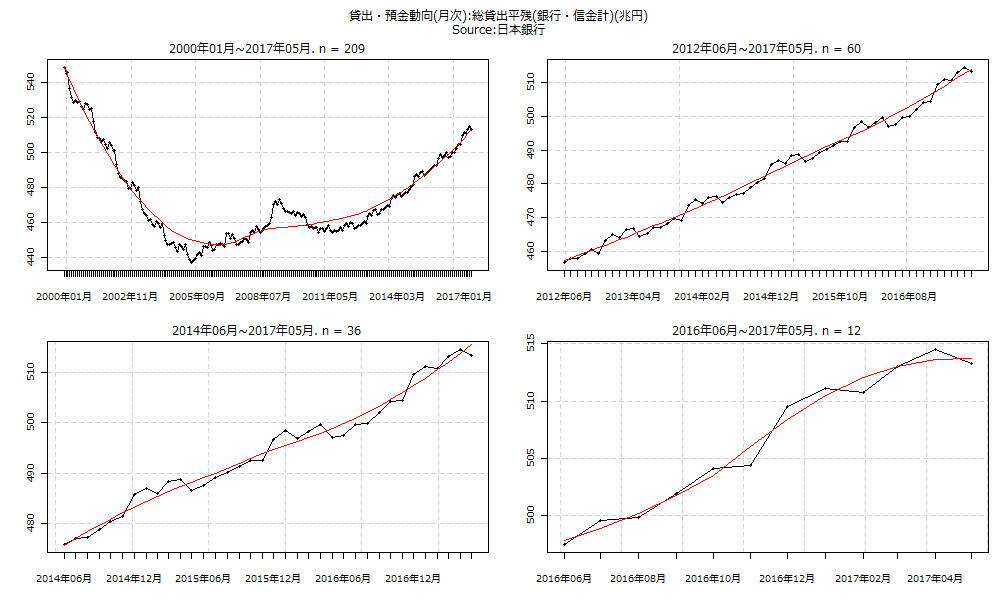
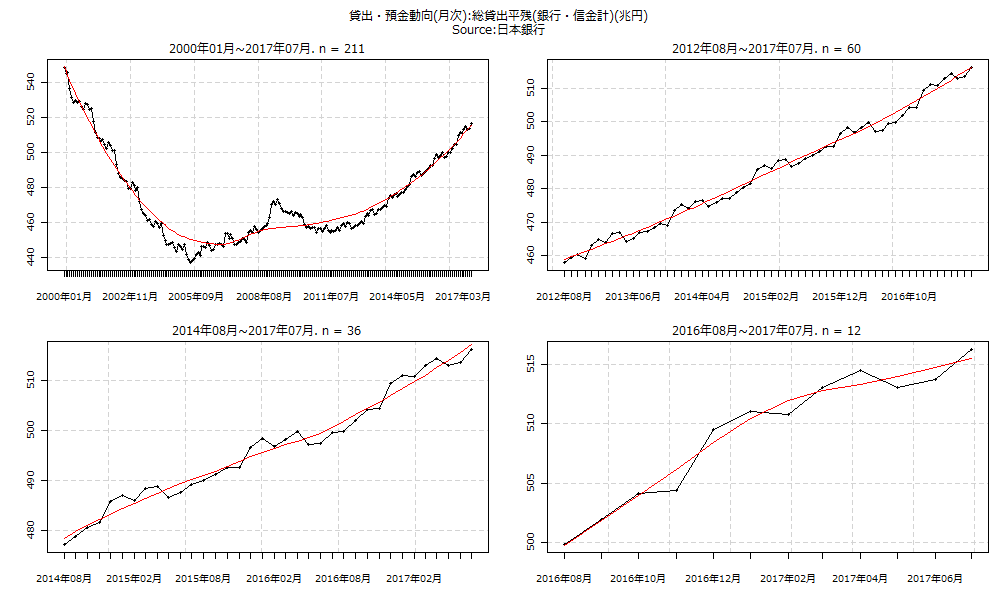
insertheader,selfcontained追記
insertheader,selfcontained追記

diff --git a/md/20170808-olive.md b/md/20170808-olive.md
@@ -1,15 +1,15 @@
 
 ---
-tags : [国際収支,経常収支,貿易収支]
-title : 日本の国際収支:経常収支,資本移転等収支,金融収支,誤差脱漏,貿易収支,サービス収支,所得収支,輸出,輸入(億円):2017年06月:経常収支:9,346 , 経常収支:貿易・サービス収支:貿易収支:5,185
+tags : [貸出, 預金, 銀行, 都銀, 地銀, 日本銀行]
+title : 貸出･預金動向 速報:2017-07:貸出・預金動向(月次):総貸出平残(銀行計)(億円):4,492,177 , 貸出・預金動向(月次):総貸出平残(銀行計)前年比(%):3.4
 published : true
 ---
 
 
-<a href="http://knowledgevault.saecanet.com/charts/chartImages/InternationalBalanceofPayments1.png"><img border="0" src="http://knowledgevault.saecanet.com/charts/chartImages/InternationalBalanceofPayments1.png" width="100%" /></a>
+<a href="http://knowledgevault.saecanet.com/charts/chartImages/PrincipalFiguresOfFinancialInstitutionsInJapan1.png"><img border="0" src="http://knowledgevault.saecanet.com/charts/chartImages/PrincipalFiguresOfFinancialInstitutionsInJapan1.png" width="100%" /></a>
 
 
-<a href="http://knowledgevault.saecanet.com/charts/chartImages/InternationalBalanceofPayments2.png"><img border="0" src="http://knowledgevault.saecanet.com/charts/chartImages/InternationalBalanceofPayments2.png" width="100%" /></a>
+<a href="http://knowledgevault.saecanet.com/charts/chartImages/PrincipalFiguresOfFinancialInstitutionsInJapan2.png"><img border="0" src="http://knowledgevault.saecanet.com/charts/chartImages/PrincipalFiguresOfFinancialInstitutionsInJapan2.png" width="100%" /></a>
 
 
 ***
@@ -18,7 +18,7 @@ published : true
 #### 内閣総理大臣毎の基本統計量
 
 
-- 経常収支:貿易・サービス収支:貿易収支:輸出(億円)
+- 貸出・預金動向(月次):総貸出平残(銀行計)前年比(%)
 
 
 <table id = 'amcc' width = '100%'>
@@ -36,114 +36,144 @@ published : true
  </thead>
 <tbody>
   <tr>
+   <td style="text-align:left;"> 細川護煕 </td>
+   <td style="text-align:right;"> 0.2 </td>
+   <td style="text-align:right;"> 0.4 </td>
+   <td style="text-align:right;"> 0.5 </td>
+   <td style="text-align:right;"> 0.52 </td>
+   <td style="text-align:right;"> 0.57 </td>
+   <td style="text-align:right;"> 0.9 </td>
+   <td style="text-align:left;"> 1993年09月~1994年04月 </td>
+  </tr>
+  <tr>
+   <td style="text-align:left;"> 羽田孜 </td>
+   <td style="text-align:right;"> -0.2 </td>
+   <td style="text-align:right;"> -0.15 </td>
+   <td style="text-align:right;"> -0.1 </td>
+   <td style="text-align:right;"> -0.1 </td>
+   <td style="text-align:right;"> -0.05 </td>
+   <td style="text-align:right;"> 0 </td>
+   <td style="text-align:left;"> 1994年05月~1994年06月 </td>
+  </tr>
+  <tr>
+   <td style="text-align:left;"> 村山富市 </td>
+   <td style="text-align:right;"> -0.3 </td>
+   <td style="text-align:right;"> -0.2 </td>
+   <td style="text-align:right;"> 0 </td>
+   <td style="text-align:right;"> 0.55 </td>
+   <td style="text-align:right;"> 1.4 </td>
+   <td style="text-align:right;"> 2.2 </td>
+   <td style="text-align:left;"> 1994年07月~1996年01月 </td>
+  </tr>
+  <tr>
    <td style="text-align:left;"> 橋本龍太郎(1-2) </td>
-   <td style="text-align:right;"> 32,685 </td>
-   <td style="text-align:right;"> 37,036.25 </td>
-   <td style="text-align:right;"> 39,296 </td>
-   <td style="text-align:right;"> 39,158.87 </td>
-   <td style="text-align:right;"> 41,465.75 </td>
-   <td style="text-align:right;"> 44,994 </td>
+   <td style="text-align:right;"> -2.5 </td>
+   <td style="text-align:right;"> -0.5 </td>
+   <td style="text-align:right;"> -0.1 </td>
+   <td style="text-align:right;"> -0.14 </td>
+   <td style="text-align:right;"> 0.15 </td>
+   <td style="text-align:right;"> 2.2 </td>
    <td style="text-align:left;"> 1996年02月~1998年07月 </td>
   </tr>
   <tr>
    <td style="text-align:left;"> 小渕恵三 </td>
-   <td style="text-align:right;"> 32,968 </td>
-   <td style="text-align:right;"> 35,540 </td>
-   <td style="text-align:right;"> 39,109 </td>
-   <td style="text-align:right;"> 38,544.05 </td>
-   <td style="text-align:right;"> 40,872 </td>
-   <td style="text-align:right;"> 44,911 </td>
+   <td style="text-align:right;"> -6.5 </td>
+   <td style="text-align:right;"> -5.9 </td>
+   <td style="text-align:right;"> -5.4 </td>
+   <td style="text-align:right;"> -4.99 </td>
+   <td style="text-align:right;"> -4.2 </td>
+   <td style="text-align:right;"> -2.3 </td>
    <td style="text-align:left;"> 1998年08月~2000年04月 </td>
   </tr>
   <tr>
    <td style="text-align:left;"> 森喜朗(1-2) </td>
-   <td style="text-align:right;"> 34,322 </td>
-   <td style="text-align:right;"> 39,690.25 </td>
-   <td style="text-align:right;"> 40,857 </td>
-   <td style="text-align:right;"> 40,950.17 </td>
-   <td style="text-align:right;"> 42,865.25 </td>
-   <td style="text-align:right;"> 46,237 </td>
+   <td style="text-align:right;"> -4.7 </td>
+   <td style="text-align:right;"> -4.38 </td>
+   <td style="text-align:right;"> -4 </td>
+   <td style="text-align:right;"> -4.04 </td>
+   <td style="text-align:right;"> -3.68 </td>
+   <td style="text-align:right;"> -3.5 </td>
    <td style="text-align:left;"> 2000年05月~2001年04月 </td>
   </tr>
   <tr>
    <td style="text-align:left;"> 小泉純一郎(1-3) </td>
-   <td style="text-align:right;"> 33,334 </td>
-   <td style="text-align:right;"> 40,737 </td>
-   <td style="text-align:right;"> 45,227 </td>
-   <td style="text-align:right;"> 46,722.12 </td>
-   <td style="text-align:right;"> 51,641 </td>
-   <td style="text-align:right;"> 65,507 </td>
+   <td style="text-align:right;"> -5.3 </td>
+   <td style="text-align:right;"> -4.7 </td>
+   <td style="text-align:right;"> -4.2 </td>
+   <td style="text-align:right;"> -3.27 </td>
+   <td style="text-align:right;"> -2.7 </td>
+   <td style="text-align:right;"> 2.1 </td>
    <td style="text-align:left;"> 2001年05月~2006年09月 </td>
   </tr>
   <tr>
    <td style="text-align:left;"> 安倍晋三(1) </td>
-   <td style="text-align:right;"> 56,701 </td>
-   <td style="text-align:right;"> 62,844.25 </td>
-   <td style="text-align:right;"> 64,809.5 </td>
-   <td style="text-align:right;"> 65,092.75 </td>
-   <td style="text-align:right;"> 67,720 </td>
-   <td style="text-align:right;"> 71,832 </td>
+   <td style="text-align:right;"> 0.3 </td>
+   <td style="text-align:right;"> 0.7 </td>
+   <td style="text-align:right;"> 1 </td>
+   <td style="text-align:right;"> 1.01 </td>
+   <td style="text-align:right;"> 1.15 </td>
+   <td style="text-align:right;"> 1.8 </td>
    <td style="text-align:left;"> 2006年10月~2007年09月 </td>
   </tr>
   <tr>
    <td style="text-align:left;"> 福田康夫 </td>
-   <td style="text-align:right;"> 61,519 </td>
-   <td style="text-align:right;"> 66,780.75 </td>
-   <td style="text-align:right;"> 68,818 </td>
-   <td style="text-align:right;"> 68,739.17 </td>
-   <td style="text-align:right;"> 71,073.25 </td>
-   <td style="text-align:right;"> 73,723 </td>
+   <td style="text-align:right;"> 0.1 </td>
+   <td style="text-align:right;"> 0.68 </td>
+   <td style="text-align:right;"> 1.25 </td>
+   <td style="text-align:right;"> 1.23 </td>
+   <td style="text-align:right;"> 1.85 </td>
+   <td style="text-align:right;"> 2 </td>
    <td style="text-align:left;"> 2007年10月~2008年09月 </td>
   </tr>
   <tr>
    <td style="text-align:left;"> 麻生太郎 </td>
-   <td style="text-align:right;"> 33,063 </td>
-   <td style="text-align:right;"> 38,797.75 </td>
-   <td style="text-align:right;"> 42,877 </td>
-   <td style="text-align:right;"> 43,713.92 </td>
-   <td style="text-align:right;"> 46,533.5 </td>
-   <td style="text-align:right;"> 66,015 </td>
+   <td style="text-align:right;"> 1.6 </td>
+   <td style="text-align:right;"> 2.27 </td>
+   <td style="text-align:right;"> 3.4 </td>
+   <td style="text-align:right;"> 3.03 </td>
+   <td style="text-align:right;"> 3.65 </td>
+   <td style="text-align:right;"> 4.1 </td>
    <td style="text-align:left;"> 2008年10月~2009年09月 </td>
   </tr>
   <tr>
    <td style="text-align:left;"> 鳩山由紀夫 </td>
-   <td style="text-align:right;"> 46,699 </td>
-   <td style="text-align:right;"> 49,154 </td>
-   <td style="text-align:right;"> 50,692 </td>
-   <td style="text-align:right;"> 51,745.22 </td>
-   <td style="text-align:right;"> 56,005 </td>
-   <td style="text-align:right;"> 57,580 </td>
+   <td style="text-align:right;"> -2.1 </td>
+   <td style="text-align:right;"> -2 </td>
+   <td style="text-align:right;"> -1.7 </td>
+   <td style="text-align:right;"> -1.22 </td>
+   <td style="text-align:right;"> -1.2 </td>
+   <td style="text-align:right;"> 1.5 </td>
    <td style="text-align:left;"> 2009年10月~2010年06月 </td>
   </tr>
   <tr>
    <td style="text-align:left;"> 菅直人 </td>
-   <td style="text-align:right;"> 45,626 </td>
-   <td style="text-align:right;"> 50,394.5 </td>
-   <td style="text-align:right;"> 54,447 </td>
-   <td style="text-align:right;"> 53,322.53 </td>
-   <td style="text-align:right;"> 56,252.5 </td>
-   <td style="text-align:right;"> 58,846 </td>
+   <td style="text-align:right;"> -2.1 </td>
+   <td style="text-align:right;"> -2 </td>
+   <td style="text-align:right;"> -1.8 </td>
+   <td style="text-align:right;"> -1.43 </td>
+   <td style="text-align:right;"> -0.7 </td>
+   <td style="text-align:right;"> -0.3 </td>
    <td style="text-align:left;"> 2010年07月~2011年09月 </td>
   </tr>
   <tr>
    <td style="text-align:left;"> 野田佳彦 </td>
-   <td style="text-align:right;"> 43,845 </td>
-   <td style="text-align:right;"> 50,027 </td>
-   <td style="text-align:right;"> 51,523 </td>
-   <td style="text-align:right;"> 51,795.4 </td>
-   <td style="text-align:right;"> 53,679 </td>
-   <td style="text-align:right;"> 60,909 </td>
+   <td style="text-align:right;"> 0.1 </td>
+   <td style="text-align:right;"> 0.45 </td>
+   <td style="text-align:right;"> 0.8 </td>
+   <td style="text-align:right;"> 0.77 </td>
+   <td style="text-align:right;"> 1.05 </td>
+   <td style="text-align:right;"> 1.4 </td>
    <td style="text-align:left;"> 2011年10月~2012年12月 </td>
   </tr>
   <tr>
    <td style="text-align:left;"> 安倍晋三(2,3) </td>
-   <td style="text-align:right;"> 47,264 </td>
-   <td style="text-align:right;"> 56,657.25 </td>
-   <td style="text-align:right;"> 59,374.5 </td>
-   <td style="text-align:right;"> 59,900.91 </td>
-   <td style="text-align:right;"> 63,339.5 </td>
-   <td style="text-align:right;"> 71,706 </td>
-   <td style="text-align:left;"> 2013年01月~2017年06月 </td>
+   <td style="text-align:right;"> 1.6 </td>
+   <td style="text-align:right;"> 2.2 </td>
+   <td style="text-align:right;"> 2.4 </td>
+   <td style="text-align:right;"> 2.42 </td>
+   <td style="text-align:right;"> 2.6 </td>
+   <td style="text-align:right;"> 3.4 </td>
+   <td style="text-align:left;"> 2013年01月~2017年07月 </td>
   </tr>
 </tbody>
 </table>
@@ -151,7 +181,7 @@ published : true
 ## データテーブル･チャート
 
 
-Link : [データテーブル･チャート](http://knowledgevault.saecanet.com/charts/am-consulting.co.jp-InternationalBalanceofPayments.html)
+Link : [データテーブル･チャート](http://knowledgevault.saecanet.com/charts/am-consulting.co.jp-PrincipalFiguresOfFinancialInstitutionsInJapan.html)
 
 
-<iframe src="http://knowledgevault.saecanet.com/charts/am-consulting.co.jp-InternationalBalanceofPayments.html" width="100%" height="800px"></iframe>
+<iframe src="http://knowledgevault.saecanet.com/charts/am-consulting.co.jp-PrincipalFiguresOfFinancialInstitutionsInJapan.html" width="100%" height="800px"></iframe>
